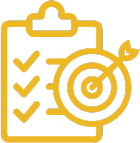
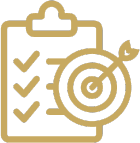
color scheme change

diff --git a/resources/css/style.css b/resources/css/style.css
@@ -9,13 +9,14 @@
     font-size: 2.7rem;
     text-align: center;
     font-family: 'Work Sans';
-    text-shadow: 2px 4px 5px rgba(0,0,0,0.3);
+    text-shadow: 1px 1px 3px rgba(0,0,0,0.5);
 }
 
 span {
-    color: #EDB824;
+    color: #C7A960;
     font-size: 2.7rem;
     font-weight: bold;
+    text-shadow: 2px 3px 4px rgba(0,0,0,0.3);
 }
 
 p {
@@ -43,19 +44,19 @@ p {
 /* Brand colors */
 
 .gold {
-    color:#EDB824;
+    color:#EED493;
 }
 
 .dark-gold {
-    color:#D29525;
+    color:#C7A960;
 }
 
 .teal {
     color:#017F8D;
 }
 
-.dark-teal {
-    color: #07526A;
+.dark-red {
+    color: #670404;
 }
 
 /* Styling for the menu */
@@ -75,7 +76,7 @@ header {
 }
 
 .menu-container img {
-    width: 180px;
+    width: 200px;
     height: auto;
     margin-right: auto;
 }
@@ -92,12 +93,12 @@ header {
 }
 
 .menu ul li:hover {
-    color: #017F8D;
+    color: #C7A960;
     text-shadow: 0px 0.5px 0.5px rgba(0,0,0,0.2);
 }
 
 .menu ul li:active {
-    color: #EDB824;
+    color: #670404;
 }
 
 .menu ul li a {
@@ -190,7 +191,7 @@ input[type=text]:focus {
 }
 
 input[type=submit] {
-    background-color: #EDB824;
+    background-color: #C7A960;
     color: white;
     border-radius: 0px 4px 4px 0px;
     font-family: 'Work Sans';
@@ -200,7 +201,7 @@ input[type=submit] {
 }
 
 input[type=submit]:hover {
-    background-color: #D29525;
+    background-color: #EED493;
 }
 
 .valuation-description {
@@ -314,7 +315,7 @@ input[type=submit]:hover {
 /* Blog Posts */
 
 .blog {
-    background-color: #F0EDF3;
+    background-color: #E9E4D4;
     width: 100%;
     padding-top: 1rem;
     position: relative;
@@ -351,7 +352,7 @@ input[type=submit]:hover {
 }
 
 .teal-container {
-    background-color: #07526A;
+    background-image: linear-gradient(45deg, #000000, #670404);
     width: 70%;
     position: relative;
     top: 12rem;
@@ -391,7 +392,7 @@ input[type=submit]:hover {
 .reason span {
     font-weight: bold;
     font-size: 2rem;
-    color: #EDB824;
+    color: #C7A960;
 }
 
 @media only screen and (max-width: 1275px) {
@@ -558,7 +559,6 @@ input[type=submit]:hover {
 
 .faq p {
     font-size: 2rem;
-    color: #07526A;
     padding-bottom: 1rem;
     padding-left: 1rem; 
 }
@@ -577,7 +577,7 @@ input[type=submit]:hover {
 /* footer */
 
 footer {
-    border-top: 6px solid #D29525;
+    border-top: 6px solid #C7A960;
     background-color: black;
     width: 100%;
     color: white;

diff --git a/index.html b/index.html
@@ -37,7 +37,7 @@
     <main>
         <section class="hero-image">
             <div class="container">
-                <h1 class="heading" id="mobile-size"><span>Instantly</span> Discover How Much Your Home is Worth...</h1>
+                <h1 class="heading" id="mobile-size">Instantly Discover How Much Your Home is Worth...</h1>
                 <form>
                     <input type="text" placeholder="Enter your address">
                     <input type="submit" value="Find Out Now">
@@ -48,7 +48,7 @@
             <p class="hero-section">Get an estimate of your home's value and find out how much you could sell for based on key factors in your area.</p>
         </div>
         <section class="house-listings">
-            <h2 class="heading dark-teal" id="mobile-heading">Explore Home Listings in the Springfield MO Area</h2>
+            <h2 class="heading dark-gold" id="mobile-heading">Explore Home Listings in the Springfield MO Area</h2>
             <div class="listing-row ">
                 <img src="./resources/images/HouseListingExample.png" />
                 <img src="./resources/images/HouseListingExample.png" />
@@ -73,7 +73,7 @@
         </section>
         <section class="work-with-me">
             <div class="teal-container">
-                <h2 class="heading teal" id="reason-title">Why Work With Me?</h2>
+                <h2 class="heading" id="reason-title">Why Work With Me?</h2>
                 <div class="reason">
                     <img src="./resources/images/HouseListing.png" />
                     <p><span>Great Home Exposure: </span>Your home listing will be seen by a larger audience both in and outside of Missouri. This will ensure you get the offer you want.</p>
@@ -89,7 +89,7 @@
             </div>
         </section>
         <section class="faq">
-            <h2 class="heading dark-teal">Have Any Questions?</h2>
+            <h2 class="heading">Have Any Questions?</h2>
             <p>Why do I need a real estate agent?</p>
             <p>How long will it take to sell my property?</p>
             <p>What are “closing costs”?</p>
